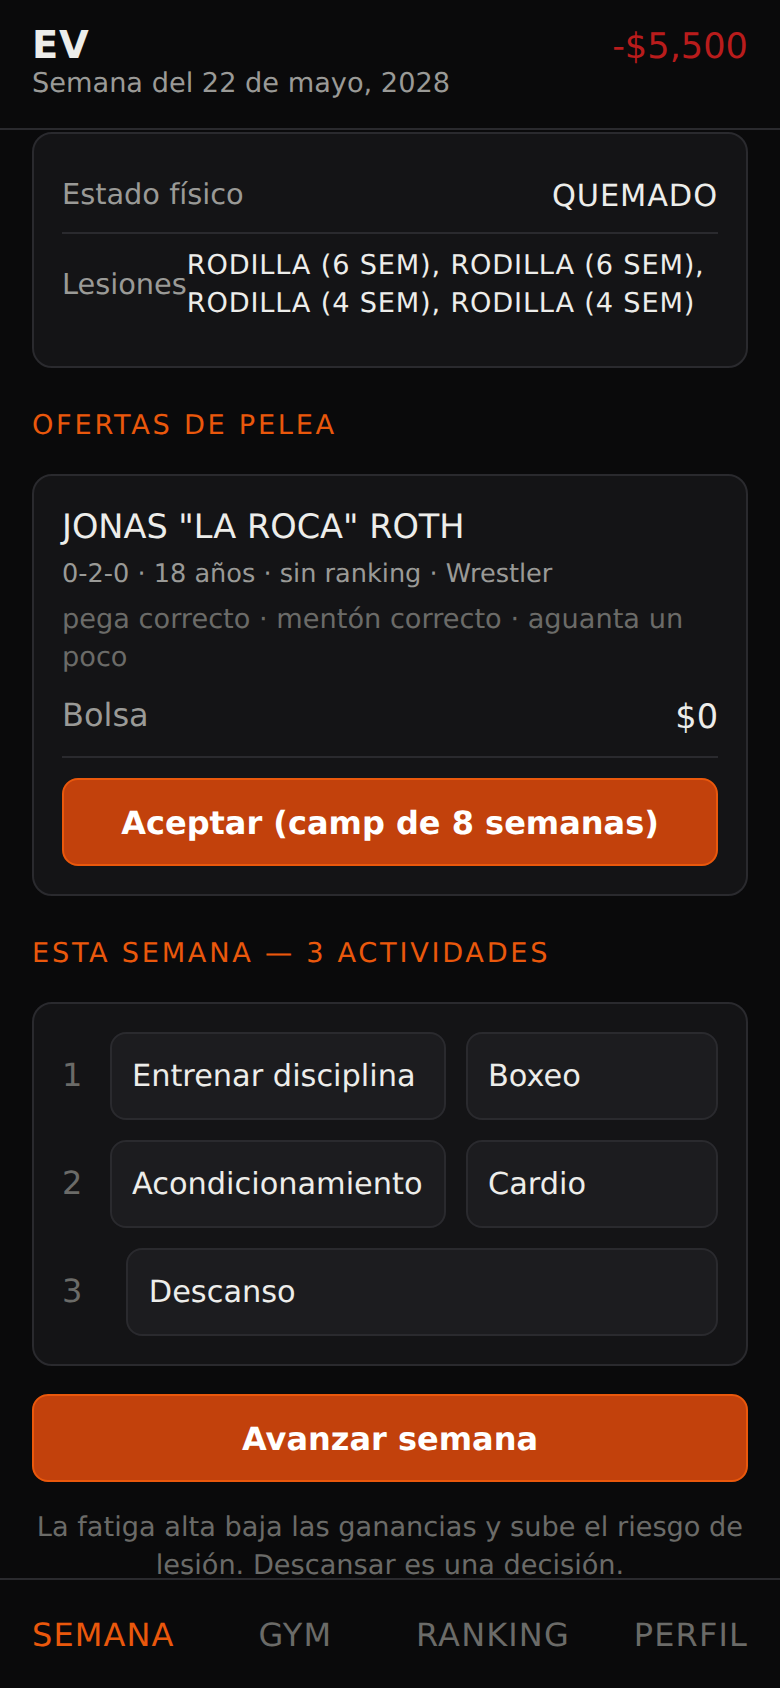
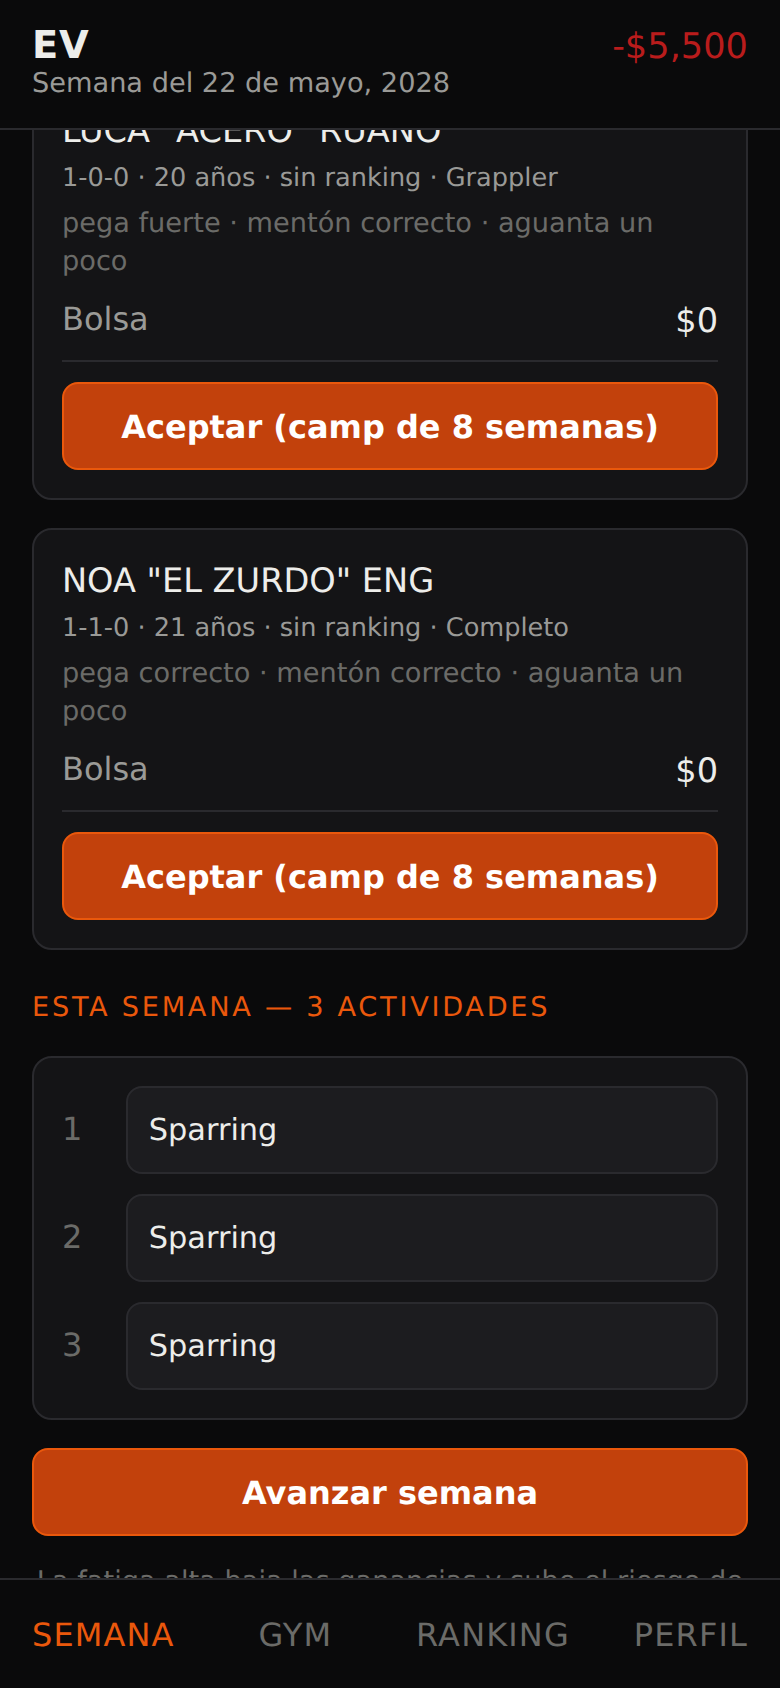
polish: persist weekly training plan across weeks
Slots now keep the last selection between weeks instead of resetting, so
repeating a plan is a single tap on "Avanzar semana". Resets only when
crossing into/out of a fight camp (which has its own defaults). Cuts the
per-week tapping over a 15-year career.

Claude-Session: https://claude.ai/code/session_01S9XaATBwKQ99U3hcky5Mzi

Changed region(s): [[0.0308, 0.0616, 0.9846, 0.955], [0.6154, 0.6777, 0.7385, 0.7085], [0.8308, 0.3389, 0.8615, 0.4005]]

diff --git a/www/js/ui/app.js b/www/js/ui/app.js
@@ -321,10 +321,12 @@ function cloneSlot(s) { return { ...s }; }
 async function doAdvance(baseDec) {
   const c = state.career;
   const tierBefore = c.player.promotionTier;
+  const phaseBefore = c.phase;
   const rankBefore = c.world.divisions[c.player.divisionId].ranking.indexOf(c.player.id);
   const rep = advanceWeek(c, baseDec, { interactive: true });
   c._dateLabel = rep.dateLabel || c._dateLabel;
-  state._slots = null;
+  // los slots persisten entre semanas (repetís el plan con un tap); se resetean al cambiar de fase
+  if (c.phase !== phaseBefore) state._slots = null;
   // eventos de la semana para feedback
   const ev = [];
   for (const inj of (rep.injuries || [])) ev.push(`Te lesionaste: ${inj.label} (${inj.weeksLeft} sem).`);
